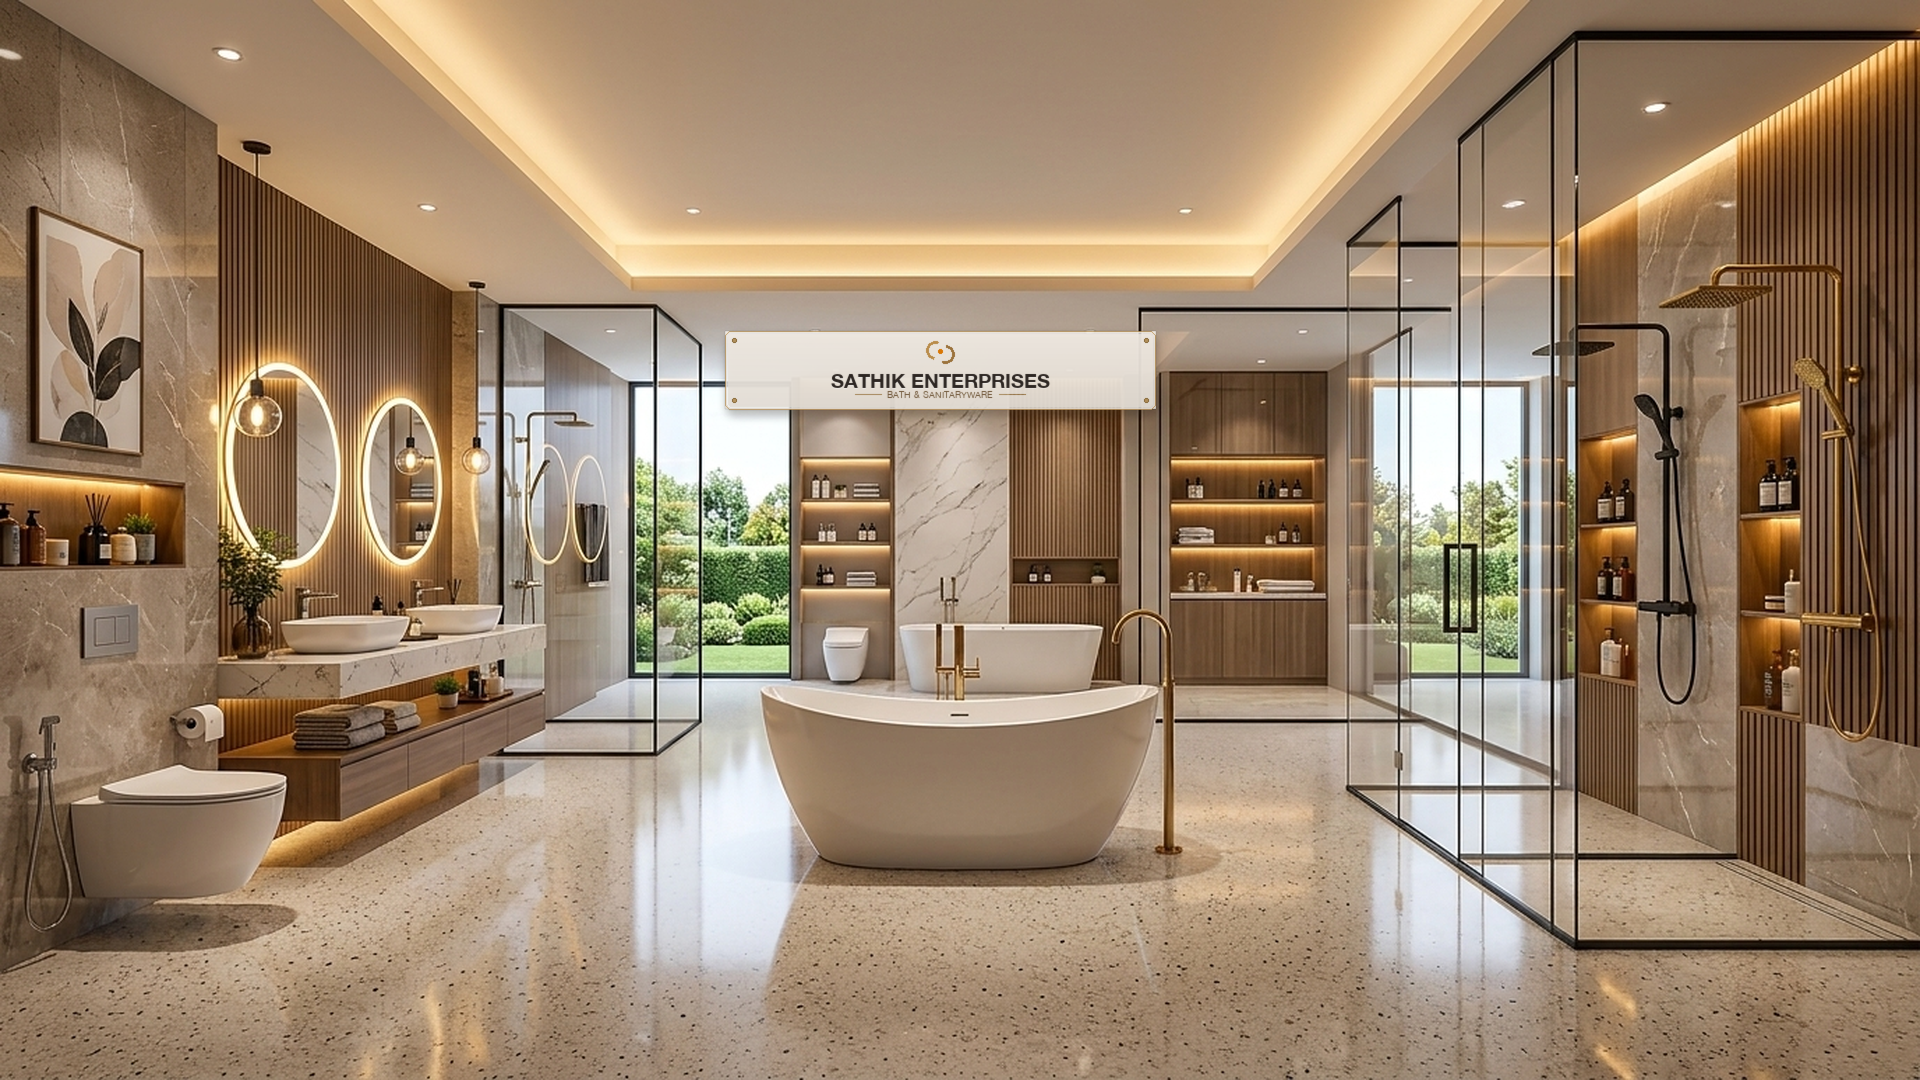
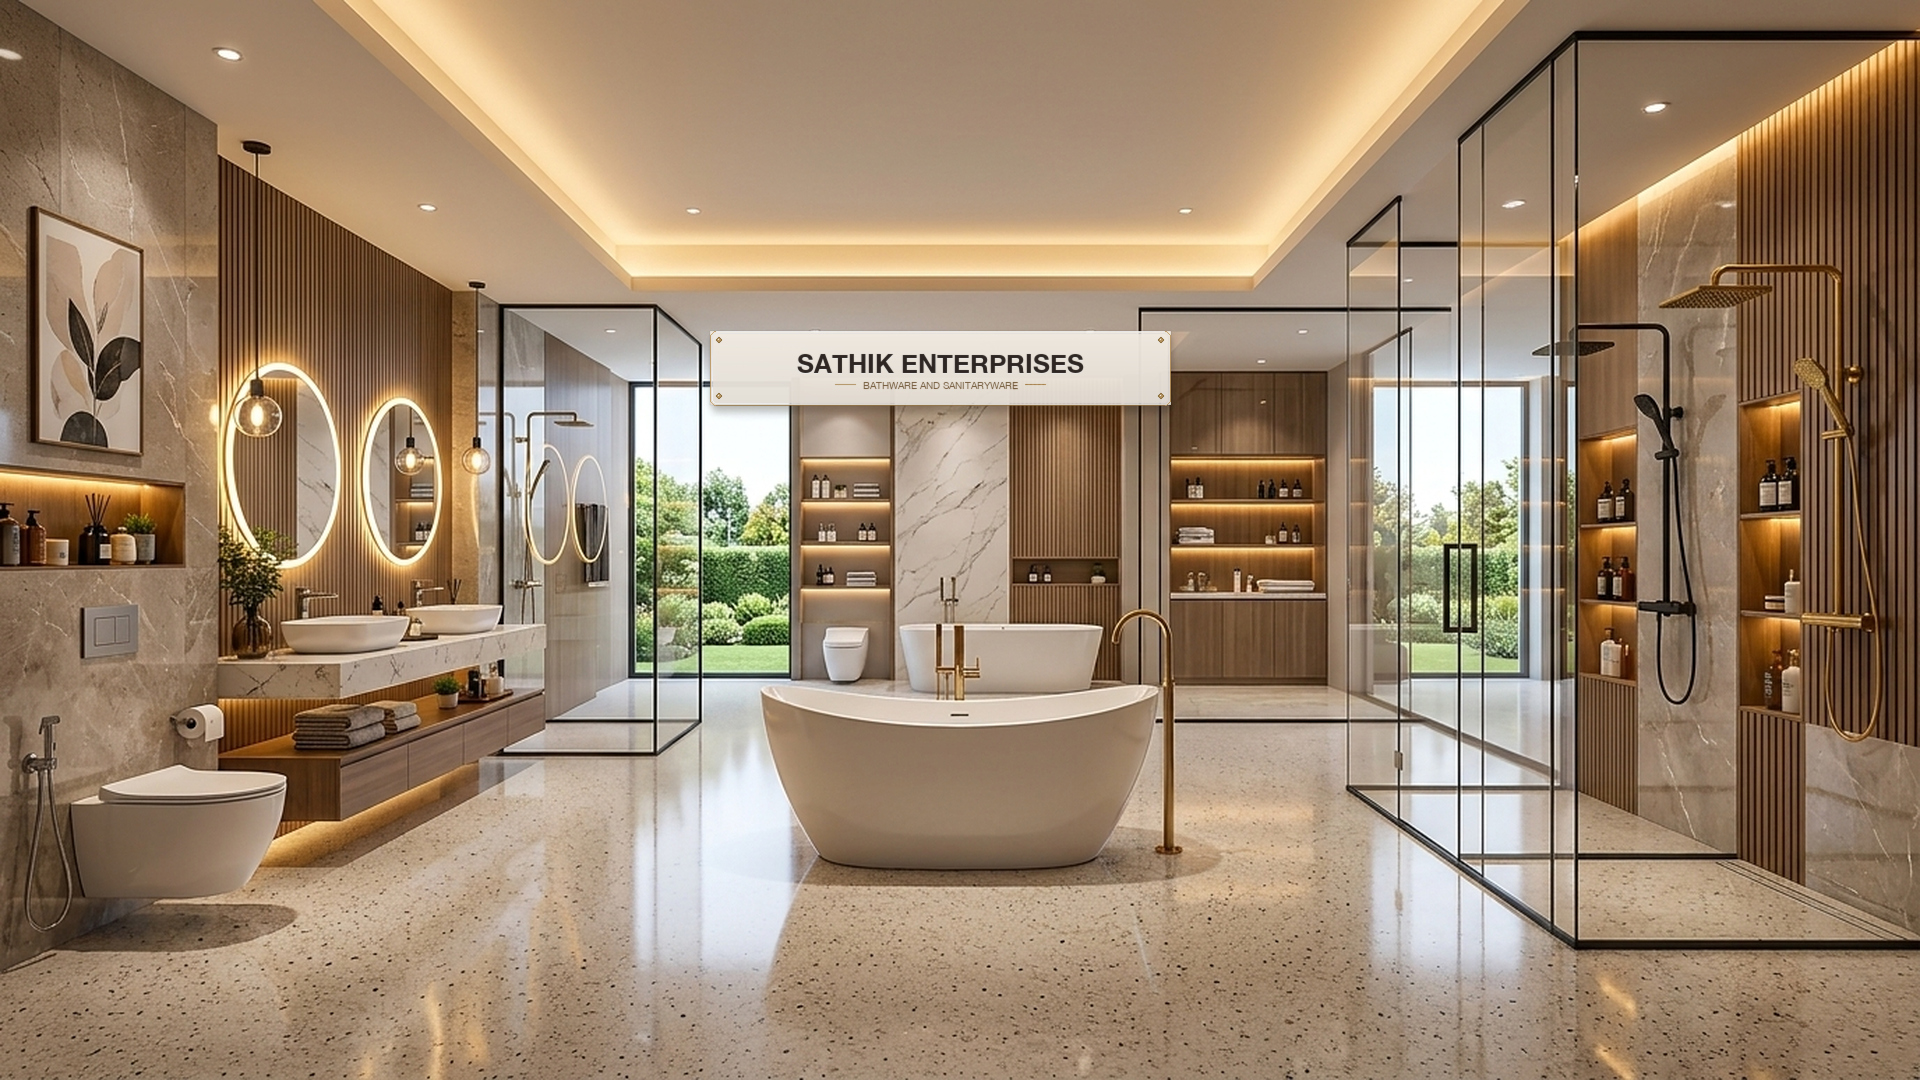
feat(hero): refine Sathik Traders physical wall signboard and update Sathik Enterprises board with bigger name and Bathware and Sanitaryware subtitle

Changed region(s): [[0.3438, 0.3056, 0.625, 0.3972]]

diff --git a/templates/index.html b/templates/index.html
@@ -70,7 +70,7 @@ across Chennai since 1964.{% endblock %}
 
     <!-- Slide 2: Plumbing Products Store -->
     <div class="hero-slide"
-      style="background-image: url('{{ url_for('static', filename='images/hero/plumbing_slide.webp') }}?v=230');">
+      style="background-image: url('{{ url_for('static', filename='images/hero/plumbing_slide.webp') }}?v=240');">
       <div class="hero-inner">
         <div class="container">
           <div class="hero-content">
@@ -111,7 +111,7 @@ across Chennai since 1964.{% endblock %}
 
     <!-- Slide 3: Luxury Bath & Sanitaryware -->
     <div class="hero-slide hero-slide-bath"
-      style="background-image: url('{{ url_for('static', filename='images/hero/bath_kitchen_slide.webp') }}?v=230');">
+      style="background-image: url('{{ url_for('static', filename='images/hero/bath_kitchen_slide.webp') }}?v=240');">
       <div class="hero-inner">
         <div class="container">
           <div class="hero-content">
@@ -119,7 +119,7 @@ across Chennai since 1964.{% endblock %}
               SATHIK Crafted for<br>Modern Indian<br>Bathrooms
             </h1>
             <p class="hero-desc">
-              Modern faucets, showers, and sanitaryware designed for everyday comfort and lasting beauty.
+              Bathware and Sanitaryware, modern faucets, and showers designed for everyday comfort and lasting beauty.
             </p>
             <div class="hero-actions">
               <a href="#stores" class="btn btn-hero-gold">

diff --git a/static/css/responsive.css b/static/css/responsive.css
@@ -1134,13 +1134,13 @@ body.modal-open {
   }
 
   .hero-slides .hero-slide:nth-child(2) {
-    background-image: url('/static/images/hero/plumbing_slide_mobile.webp?v=230') !important;
+    background-image: url('/static/images/hero/plumbing_slide_mobile.webp?v=240') !important;
     background-position: center top !important;
   }
 
   .hero-slide.hero-slide-bath,
   .hero-slides .hero-slide:nth-child(3) {
-    background-image: url('/static/images/hero/bath_kitchen_slide_mobile.webp?v=230') !important;
+    background-image: url('/static/images/hero/bath_kitchen_slide_mobile.webp?v=240') !important;
     background-position: center top !important;
   }
 
